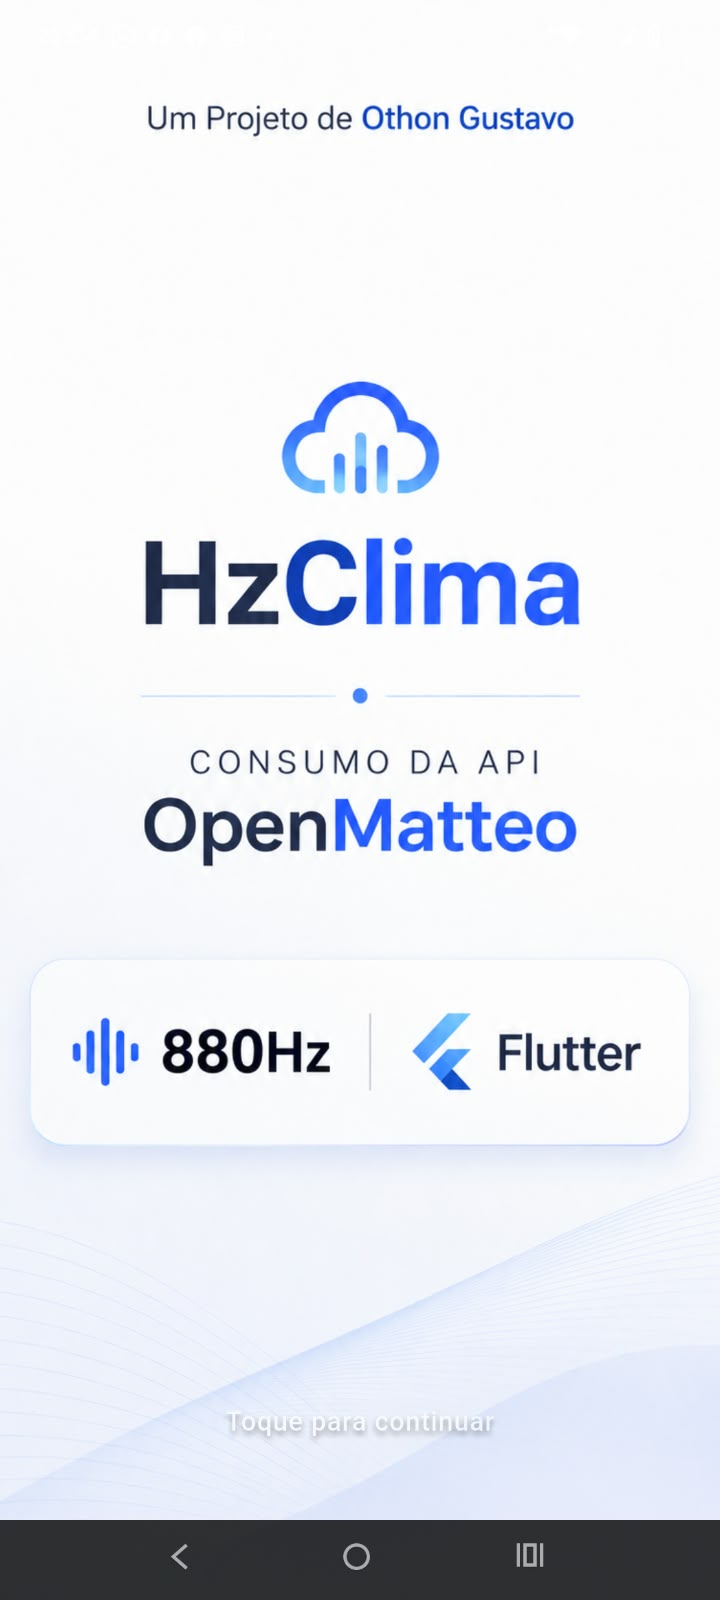
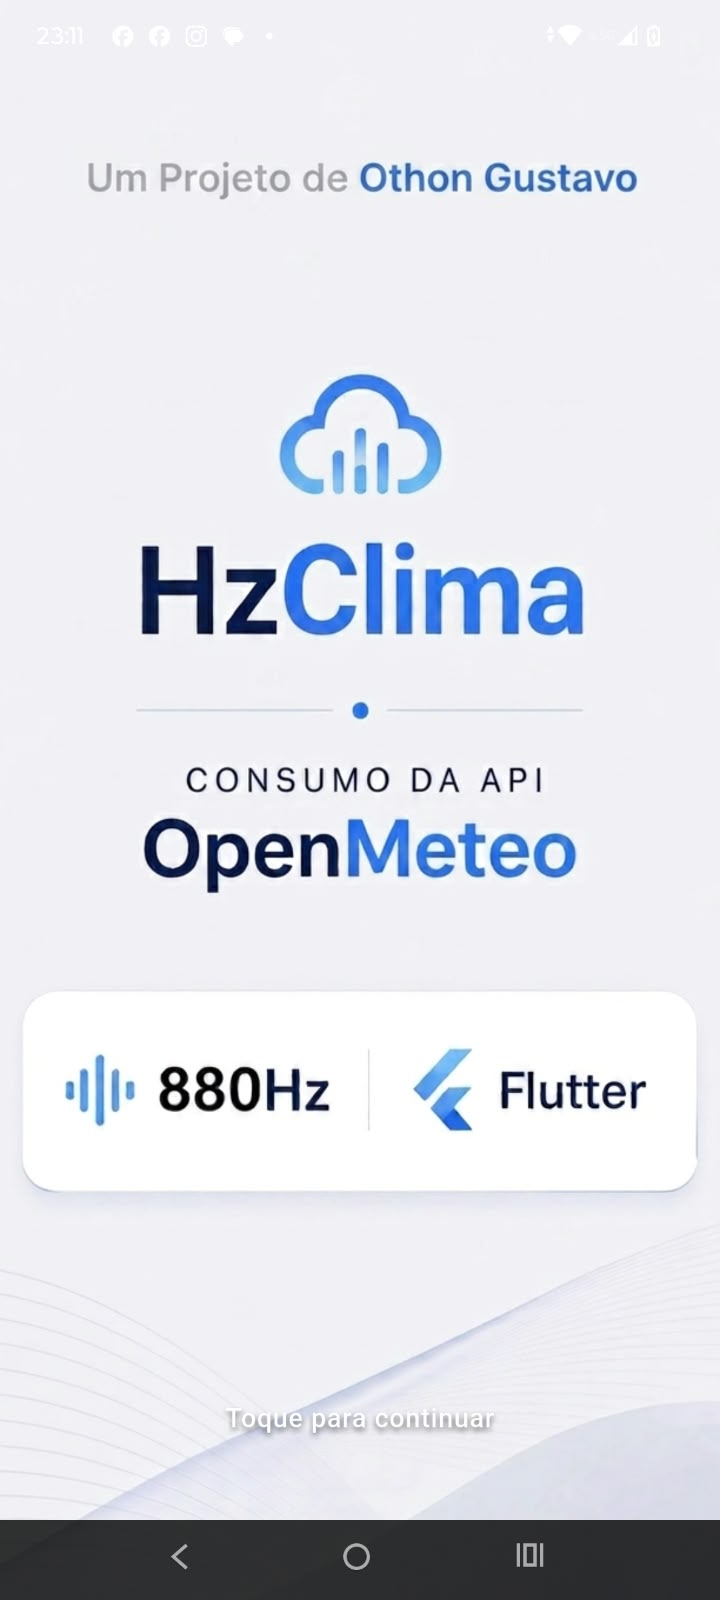
feat: atualiza WelcomeScreen

diff --git a/lib/pages/splash_page.dart b/lib/pages/splash_page.dart
@@ -61,7 +61,7 @@ class _SplashPageState extends State<SplashPage>
         body: Stack(
           fit: StackFit.expand,
           children: [
-            Image.asset('assets/image/image.png', fit: BoxFit.cover),
+            Image.asset('assets/image/image.jpg', fit: BoxFit.cover),
             SafeArea(
               child: Column(
                 children: [
